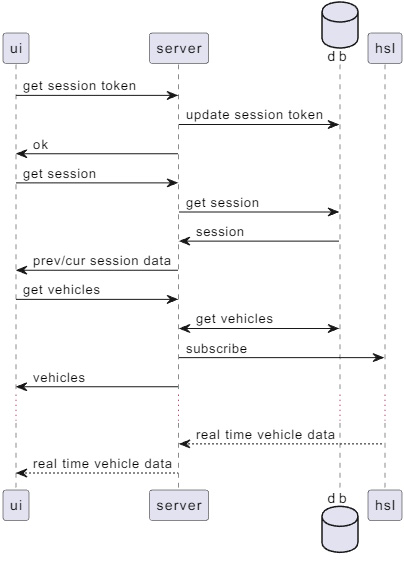
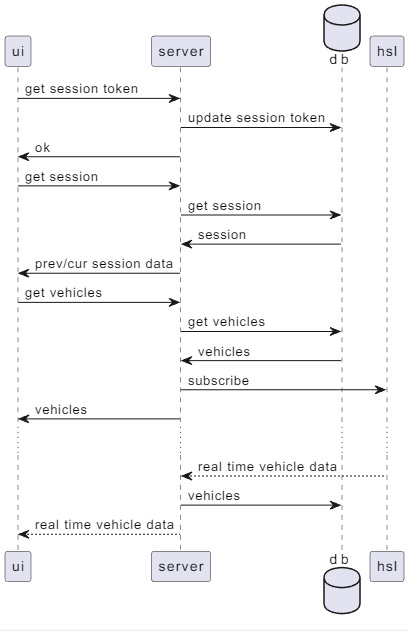
readme

Changed region(s): [[0.0, 0.0, 1.0, 0.9947], [0.3564, 0.0301, 0.5347, 0.1206], [0.9208, 0.7535, 0.9505, 0.8138]]

diff --git a/server/src/modules/vehicle/vehicle.service.ts b/server/src/modules/vehicle/vehicle.service.ts
@@ -25,6 +25,7 @@ export function getVehicles(params: GetVehiclesParams, since?: Date) {
 				vehicleTime: { gte: since },
 			},
 			orderBy: { id: "asc" },
+			take: 200
 		});
 	} else {
 		return prisma.vehicle;

diff --git a/README.md b/README.md
@@ -48,11 +48,13 @@ db<-server : get session
 db->server : session
 ui<-server : prev/cur session data
 ui->server : get vehicles
-db<->server : get vehicles
+db<-server : get vehicles
+db->server : vehicles
 hsl<-server : subscribe
 ui<-server : vehicles
 ...
 hsl-->server : real time vehicle data
+db<-server : vehicles
 ui<--server : real time vehicle data
 ```
 
@@ -64,6 +66,8 @@ ui<--server : real time vehicle data
 - add UI unit tests
 - send updates to clients via Websocket instead of polling
 - wire mock server to UI
+- remove 200 vehicle limit
+- queue mq > db
 
 ## Local environment setup
 
